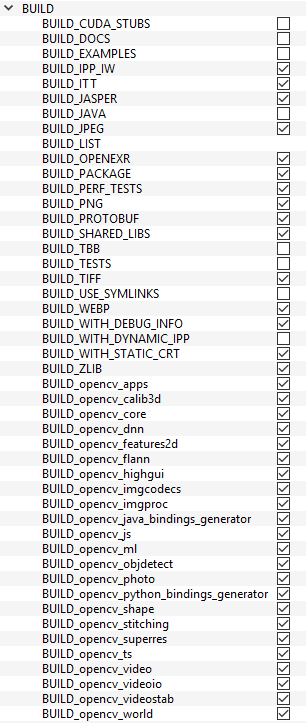
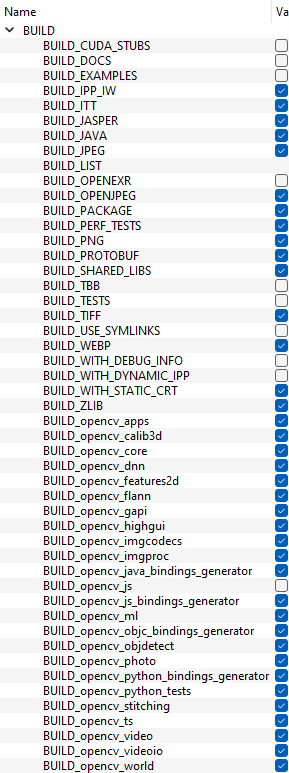
modified itom docu to compile OpenCV with ffmpeg support

Changed region(s): [[0.0, 0.0, 1.0, 1.0]]

diff --git a/docs/userDoc/source/02_installation/build_dependencies/build_opencv.rst b/docs/userDoc/source/02_installation/build_dependencies/build_opencv.rst
@@ -13,15 +13,23 @@ and build path. Configure the CMake file with following options:
 
 * CMAKE_INSTALL_PREFIX: absolute path to **install_x64**.
 
-* BUILD options:
+* **BUILD** options:
 
 .. figure:: ../images/all-in-one-create/CMake_BUILD_OPENCV.png
    :scale: 100%
    :align: center
        
-WITH options:
+* **WITH** options:
 
 .. figure:: ../images/all-in-one-create/CMake_WITH_OPENCV.png
+   :scale: 100%
+   :align: center
+   
+* **OPENCV** options:
+
+Check **OPENCV_GAPI_GSTREAMER** to get VideoCaptuer of OpenCV.
+
+.. figure:: ../images/all-in-one-create/CMake_OPENCV.PNG
    :scale: 100%
    :align: center
 

diff --git a/docs/userDoc/source/02_installation/install_all-in-one_development_setup_creation.rst b/docs/userDoc/source/02_installation/install_all-in-one_development_setup_creation.rst
@@ -35,16 +35,6 @@ the current availabe software versions.
 * `TortoiseGit <http://tortoisegit.org/download/>`_ 
 * `Doxygen <https://sourceforge.net/projects/doxygen/files/rel-1.8.11/>`_
 
-.. warning::
-
-    **Qt WebEngine**, **Qt WebEngineWidgets** are only available under VS 2017 as it is shown in the figure below! 
-    
-    Qt 5.10.1 supports **Qt WebEngine**, **Qt WebEngineWidgets** for VS2015.
-    
-.. figure:: images/all-in-one-create/QT_WebEngine_hint.png
-    :scale: 100%
-    :align: center
-
 Download packages for the 3rdPartyPCL tools
 --------------------------------------------
 

diff --git a/docs/userDoc/source/02_installation/build_dependencies/build_qt.rst b/docs/userDoc/source/02_installation/build_dependencies/build_qt.rst
@@ -47,6 +47,16 @@ For a working |itom| development environment only a prebuild version of Qt is ne
     **Qt5WebEngineWidgetsd.dll**. This bug should be solved with QT version 5.6.3 
     (release August 2017).
 
+.. warning::
+
+    **Qt WebEngine**, **Qt WebEngineWidgets** are only available under VS 2017 as it is shown in the figure below! 
+    
+    Qt 5.10.1 supports **Qt WebEngine**, **Qt WebEngineWidgets** for VS2015.
+    
+.. figure:: images/all-in-one-create/QT_WebEngine_hint.png
+    :scale: 100%
+    :align: center
+    
 Qt 6
 ----
 
